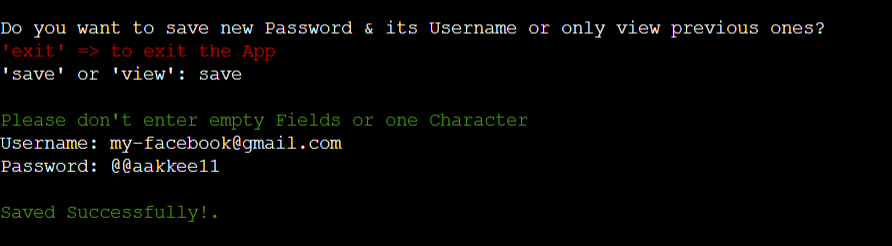
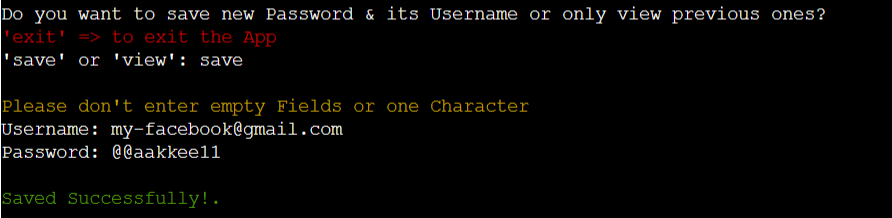
Edits in readme file and add new photos + edit one sentence in run.py file

Changed region(s): [[0.0, 0.0275, 0.9383, 0.3303], [0.0, 0.4404, 0.6054, 0.7431], [0.0, 0.8257, 0.2422, 0.9358]]

diff --git a/run.py b/run.py
@@ -239,7 +239,7 @@ def pwd_manager_run():
         print(termcolor.colored(exit_msg, color="red"))
         user = input("'save' or 'view': ").lower().strip()
         if user == "save":
-            msg = "\nPlease don't enter empty Fields or one Character"
+            msg = "\nPlease don't enter empty Fields or only one Character!"
             print(termcolor.colored(msg, color="yellow"))
             user_name = input("Username: ").strip()
             new_password = input("Password: ").strip()

diff --git a/README.md b/README.md
@@ -20,18 +20,11 @@ The Passwords Generator and Manager application is live and deployed on Heroku c
 - [Design](#design)
   - [Colour:](#colour)
   - [Existing Features:](#existing-features)
-    - [Landing Page + Passwords Generator App Start:](#landing-page--passwords-generator-app-start)
-    - [Get Full-Name + Welcome Message:](#get-full-name--welcome-message)
-    - [Passwords Generator Run Full-Path:](#passwords-generator-run-full-path)
-    - [Passwords Generator Run "Exit" Path:](#passwords-generator-run-exit-path)
-    - [Passwords Manager App Start + Welcome Message:](#passwords-manager-app-start--welcome-message)
-    - [Passwords Manager App - "Save" Path:](#passwords-manager-app---save-path)
-    - [Passwords Manager App - "View" Path:](#passwords-manager-app---view-path)
-    - [Passwords Manager App - "Exit" =\> Ask: Delete The Previous Saved Data:](#passwords-manager-app---exit--ask-delete-the-previous-saved-data)
-    - [Passwords Manager App - "Exit" =\> No Ask: No Previous Saved Data:](#passwords-manager-app---exit--no-ask-no-previous-saved-data)
-    - [Passwords Generator + Manager Apps =\> "Exit" Paths:](#passwords-generator--manager-apps--exit-paths)
-  - [Hidden(Background) Features](#hiddenbackground-features)
+  - [Hidden Features](#hidden-features)
   - [Future Features](#future-features)
+- [Testing](#testing)
+  - [Validator Testing](#validator-testing)
+  - [Unfixed Bugs](#unfixed-bugs)
 
 ## UX
 
@@ -79,42 +72,79 @@ You can view the Application diagram-flowchart and see each path in detail by cl
 The Python “Termcolor” module was utilized to add color to the project. The colors green, yellow, and red were employed to represent different paths and results. Green was utilized for Apps titles, welcome , bye messages, and normal and important results such as the new generator password. Red was utilized for errors and non-normal messages. Yellow was utilized to indicate unique questions or guide.
 
 ### Existing Features:
-#### Landing Page + Passwords Generator App Start:
+- Landing Page + Passwords Generator App Start:
+
 ![Landing Page and Passwords Generator start](assets/readme-images/loading-app.png)
 
-#### Get Full-Name + Welcome Message:
+- Get Full-Name + Welcome Message:
+
 ![Welcome Message](assets/readme-images/welcome-msg-app.png)
 
-#### Passwords Generator Run Full-Path:
+- Passwords Generator Run Full-Path:
+
 ![Passwords Generator Normal Path](assets/readme-images/pwd-generator-app.png)
 
-#### Passwords Generator Run "Exit" Path:
+- Passwords Generator Run "Exit" Path:
+
 ![Passwords Generator Exit Path](assets/readme-images/pwd-generator-app-exit.png)
 
-#### Passwords Manager App Start + Welcome Message:
+- Passwords Manager App Start + Welcome Message:
+
 ![Passwords Manager start + Msg](assets/readme-images/pwd-manager-start.png)
 
-#### Passwords Manager App - "Save" Path:
+- Passwords Manager App - "Save" Path:
+
 ![Passwords Manager - Save Path](assets/readme-images/pwd-manager-save-path.png)
 
-#### Passwords Manager App - "View" Path:
+- Passwords Manager App - "View" Path => There are saved previous ones:
+
 ![Passwords Manager - View Path](assets/readme-images/pwd-manager-view-path.png)
 
-#### Passwords Manager App - "Exit" => Ask: Delete The Previous Saved Data:
+- Passwords Manager App - "View" Path => No previous Saved Passwords:
+
+![Passwords Manager - View Path](assets/readme-images/pwd-manager-view-no-previous-pwds.png)
+
+- Passwords Manager App - "Exit" Path => Yes Ask: There are saved previous ones:
+
 ![Passwords Manager - Exit & Delete](assets/readme-images/pwd-manager-exit-delete-saved-data-path.png)
 
-#### Passwords Manager App - "Exit" => No Ask: No Previous Saved Data:
+- Passwords Manager App - "Exit" Path => No Ask: No Previous Saved Passwords:
+
 ![Passwords Manager - Exit](assets/readme-images/pwd-manager-exit-no-saved-data.png)
 
-#### Passwords Generator + Manager Apps => "Exit" Paths:
+- Passwords Generator + Manager Apps => The Shortest "Exit" Path:
+
 ![Passwords Generator and Manager Apps 'Exit'](assets/readme-images/exit-all-path.png)
 
-### Hidden(Background) Features
+### Hidden Features
 
+- Passwords Manager App Start:<br>
+When the user answer ‘yes’ to the question: ‘Do you want to start the Passwords Manager Application for the first time?’, a new file named ‘the-security-key.key’ will be created, and a symmetric key will be generated and stored inside that file.
+
+- Passwords Manager App - "Save" Path:<br>
+After the user chooses a save path and enters a username and password (not leaving any fields empty or with only one character), these entries will be saved inside ‘my-passwords.txt’. Then, a function will run to retrieve the data from ‘my-passwords.txt’ and encrypt it with the symmetric key that was stored inside ‘the-security-key.key’. The encrypted data will then be stored inside a new file named ‘my-encrypted-data.txt’.
+
+- Passwords Manager App - "view" Path:<br>
+When the user chooses to view the path and there are previously saved passwords inside ‘my-passwords.txt’, a function will run to retrieve the data from this file and encrypt it with the symmetric key that is stored inside ‘the-security-key.key’. The encrypted data will then be stored inside a new file named ‘my-encrypted-data.txt’. Then, another function will run to decrypt the data from ‘my-encrypted-data.txt’ file with the same key and print it out on the terminal.
+
+- Passwords Manager App - "Exit" Path:<br>
+When the user chooses to exit the Passwords Manager Application and there is previously saved data, a function will run and asking if they want to remove the previous saved data. If the user enters ‘yes’, a new function will run that will delete all of the data inside the files ‘my-passwords.txt’ and ‘my-encrypted-data.txt’.
 
 ### Future Features
 - Create an account for each user that shows only their passwords and requires a master password and username to access.
 - Remove and Edits a specific saved username or password inside the file without effect any other saved data.
 - Password expiration reminders, two-factor authentication.
 - Create simple beatiful GUI for application.
+
+## Testing
+
+
+
+### Validator Testing
+- The code has been tested by using [PEP8-CI Heroku-App](https://pep8ci.herokuapp.com/).
+- As per the photo below showed an error at line (127) said: invalid escape sequence ‘\d’. After a lot of searches and asking tutor support, I cannot avoid this error as it’s a "regular expression".
+
+![PEP8-CI Validation](assets/readme-images/pep8-ci.png)
+
+### Unfixed Bugs
 
